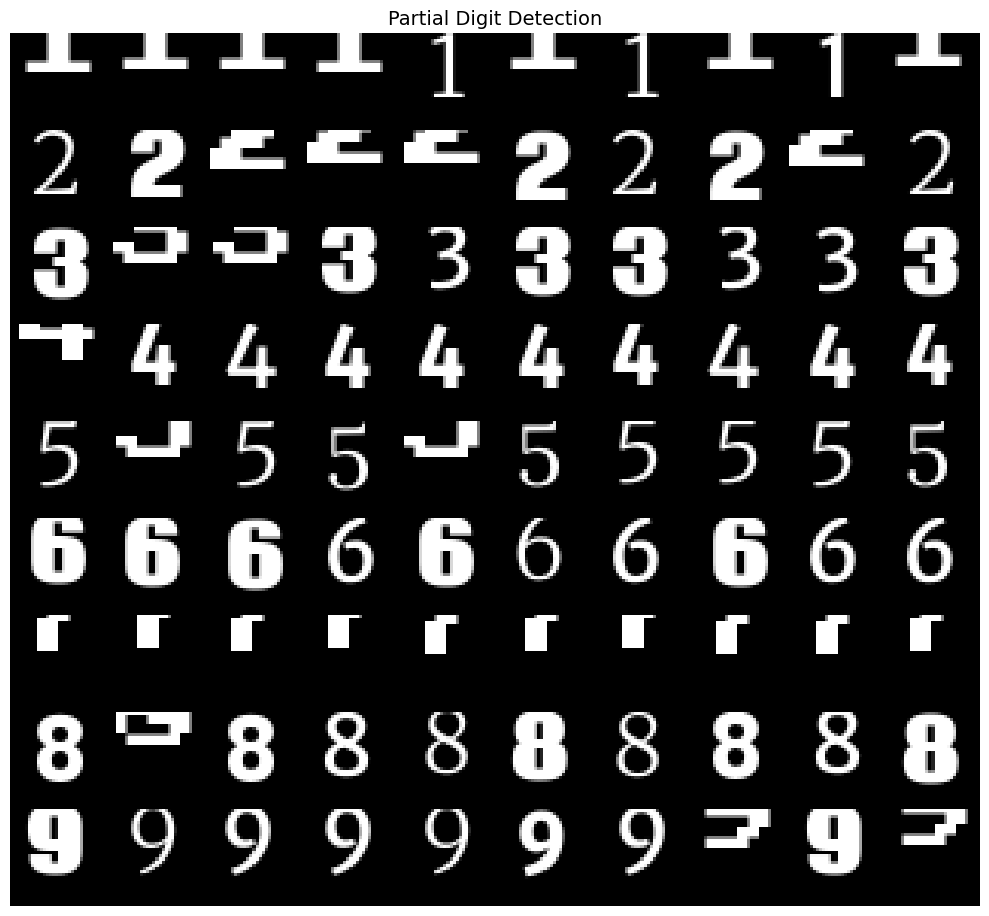
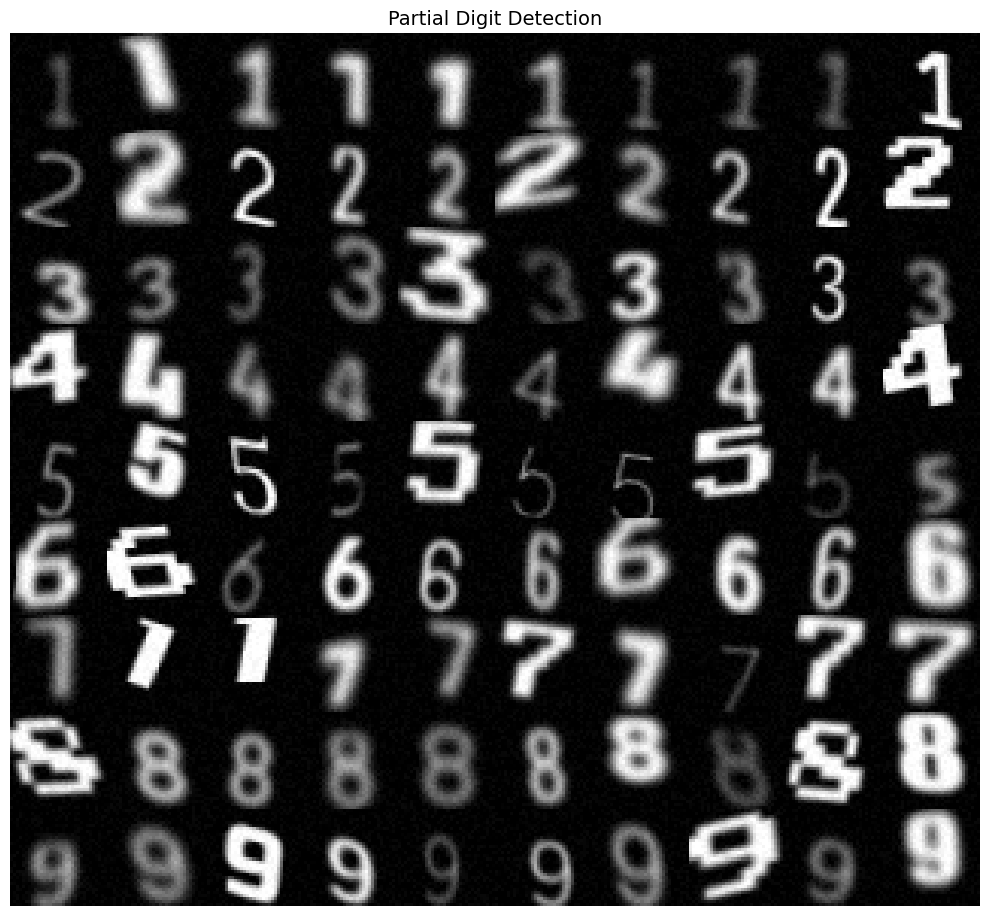
Fix create_digit_image to better center digits

diff --git a/dev_tools/data_utils/generate_digit_dataset.py b/dev_tools/data_utils/generate_digit_dataset.py
@@ -74,7 +74,7 @@ class DigitDatasetGenerator:
             if font_name.endswith(('.ttf', '.otf'))
         ]
 
-    def create_digit_image(self, digit: int, font_path: str) -> np.ndarray:
+    def create_digit_image_old(self, digit: int, font_path: str) -> np.ndarray:
         """
         Renders a digit into a centered grayscale image using a given font.
 
@@ -94,6 +94,36 @@ class DigitDatasetGenerator:
 
         x = (self.image_size - w) // 2 + random.uniform(-self.shift_range, self.shift_range)
         y = (self.image_size - 2 * h) // 2 + random.uniform(-self.shift_range, self.shift_range)
+
+        draw.text((x, y), str(digit), font=font, fill=255)
+        return np.array(img)
+
+    def create_digit_image(self, digit: int, font_path: str) -> np.ndarray:
+        """
+        Renders a digit into a centered grayscale image using a given font.
+
+        Parameters:
+            digit (int): Digit (1–9) to render.
+            font_path (str): Path to a valid .ttf/.otf font.
+
+        Returns:
+            np.ndarray: Grayscale image of the digit.
+        """
+        font = ImageFont.truetype(font_path, size=28)
+        img = Image.new("L", (self.image_size, self.image_size), 0)
+        draw = ImageDraw.Draw(img)
+
+        # Get bounding box and font metrics
+        bbox = draw.textbbox((0, 0), str(digit), font=font)
+        w, h = bbox[2] - bbox[0], bbox[3] - bbox[1]
+
+        # Improved vertical centering using ascent and descent
+        ascent, descent = font.getmetrics()
+        text_height = ascent + descent
+
+        # Calculate centered position with fine-tuned vertical centering
+        x = (self.image_size - w) // 2 + random.uniform(-self.shift_range, self.shift_range)
+        y = (self.image_size - text_height) // 2 + random.uniform(-self.shift_range, self.shift_range)
 
         draw.text((x, y), str(digit), font=font, fill=255)
         return np.array(img)
@@ -213,7 +243,7 @@ class DigitDatasetGenerator:
 
 if __name__ == "__main__":
     generator = DigitDatasetGenerator(
-        num_samples=10000,
+        num_samples=1000,
         clean_proportion=0.3,
         output_dir="digit_dataset" # test_dataset to use for ModelEvaluator outside training or
                                 # digit_dataset to use for training

diff --git a/dev_tools/data_utils/dataset_evaluation.py b/dev_tools/data_utils/dataset_evaluation.py
@@ -1680,7 +1680,7 @@ class DigitDatasetEvaluator:
 
 if __name__ == "__main__":
     evaluator = DigitDatasetEvaluator(dataset_path="digit_dataset")
-    evaluator.run_full_evaluation("all")
+    evaluator.run_full_evaluation("9")
 
 
 
